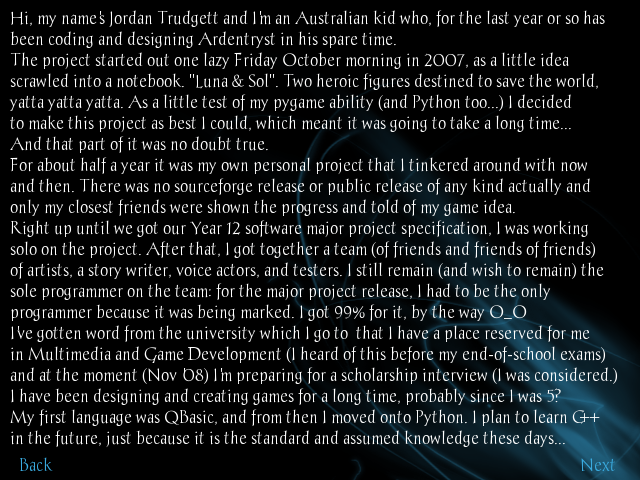
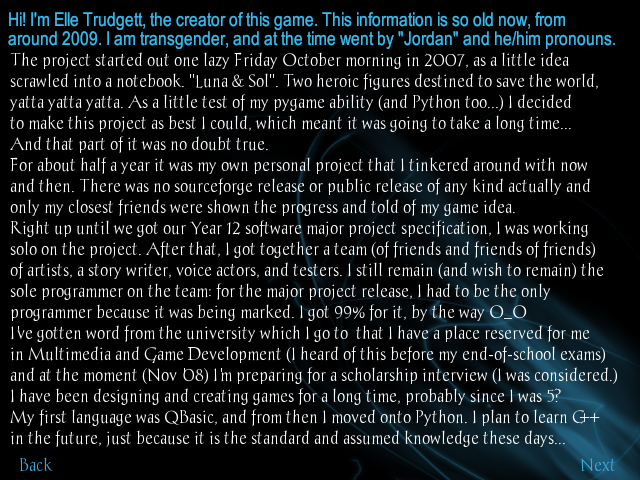
Update name and release version.

Changed region(s): [[0.0, 0.0, 0.9688, 0.0938]]

diff --git a/ardentryst.py b/ardentryst.py
@@ -16,7 +16,7 @@
 #    You should have received a copy of the GNU General Public License
 #    along with Ardentryst.  If not, see <http://www.gnu.org/licenses/>.
 #
-#    Copyright 2007, 2008, 2009 Jordan Trudgett
+#    Copyright 2007-2020 Elle Trudgett
 #
 #------------------------------------------------------------------------
 
@@ -77,10 +77,11 @@ except OSError:
 # If we can't, don't worry about it, and hope its working directory
 # has already been set. (This should be fine in 99% of cases.)
 
-VERSION = "20090726 (1.71-Comet Unstable) 1:11 PM AEST"
+VERSION = "20200922 (1.8-New World Stable)"
 DVERSION = VERSION[VERSION.index("(")+1:VERSION.index(")")].replace("-", ":")
 
 ALLOWED_OLDER_VERSIONS = [
+    "1.71:Comet Unstable",
     "1.7:Warp Speed Stable"
     ]
 
@@ -113,7 +114,7 @@ GAME_NAME = "Ardentryst"
 
 CREDITS = ["# " + GAME_NAME + " v" + DVERSION,
            "",
-           "An Action RPG and Software Major Project by Jordan Trudgett",
+           "An Action RPG and Software Major Project by Elle Trudgett",
            "developed with text-editor GNU Emacs",
            "written in Python with use of pygame libraries",
            "",
@@ -124,7 +125,7 @@ CREDITS = ["# " + GAME_NAME + " v" + DVERSION,
            "#Interface Design, Editor, Musical Talent,",
            "#Project Manager, Lead Game Developer, Project Leader,",
            "#Website Master, Digital Artist",
-           "$Jordan Trudgett",
+           "$Elle Trudgett",
            "",
            "What did you expect? :)",
            "",
@@ -142,7 +143,7 @@ CREDITS = ["# " + GAME_NAME + " v" + DVERSION,
            "#Voice Talent",
            "$Kendra Pietruszewski as Opening Scene Girl",
            "$Amy Dunwoodie as Nyx",
-           "$Jordan Trudgett as Pyralis",
+           "$Elle Trudgett as Pyralis",
            "",
            "#Sound contribution (freesound.org users)",
            "Creative Commons 3.0 License",
@@ -693,9 +694,8 @@ def handleException(e):
         savefilename = ""
     text = [
         "Ardentryst has experienced an unexpected crash.",
-        "Please take the effort to report the bug to the forums at",
-        "http://jordan.trudgett.com/",
-        "(Quick sign-up required)",
+        "You may report the bug on Github",
+        "https://github.com/ardentryst/ardentryst/issues",
         "",
         "By doing this, you may discover a solution to the bug,",
         "or help us fix it. You can even discuss it with other players!",
@@ -3737,10 +3737,10 @@ def main():
 
     print("\n-------------------------------------------------------------------------------")
     print((GAME_NAME + " v." + VERSION).center(79))
-    print("by Jordan Trudgett".center(79))
+    print("by Elle Trudgett".center(79))
     print("-------------------------------------------------------------------------------\n")
 
-    print("    Ardentryst Copyright (C) 2007, 2008, 2009 Jordan Trudgett")
+    print("    Ardentryst Copyright (C) 2007-2020 Elle Trudgett")
     print("    This program comes with ABSOLUTELY NO WARRANTY.")
     print("    This is free software, and you are welcome to redistribute it")
     print("    under certain conditions; for details, see the COPYING file.")
@@ -3945,8 +3945,7 @@ def main():
     while GAMELOOP:
         # Show game info slide(s)
         for scrp in [
-            ("Dedication.png", 4),
-            ("DevelopedWith.png", 5),
+            ("DevelopedWith.png", 5)
             ]:
             screen.blit(Data.images[scrp[0]][0], (0,0))
             skipsurf = Fonts[13].render("Press a key to skip", 1, (155,155,155))
@@ -3978,7 +3977,7 @@ def main():
         ticker = 0
         t = pygame.time.get_ticks()
 
-        MENU_STATUS = GAME_NAME + ": A 2007-2009 Software Project created by Jordan Trudgett. Written in 100% Python and pygame. This game is open source software. Please distribute it to your friends!"
+        MENU_STATUS = GAME_NAME + ": A 2007-2009 Software Project created by Elle Trudgett. Written in 100% Python and pygame. This game is open source software. Please distribute it to your friends!"
         sttext = Fonts[7].render(MENU_STATUS, 1, (255,245,235))
         sttextb = Fonts[7].render(MENU_STATUS, 1, (0,0,0))
         slen = sttext.get_rect()[2]
@@ -3986,7 +3985,7 @@ def main():
         vtextW = Fonts[9].render("Version " + DVERSION, 1, (255,255,255))
         vtextlen = vtextW.get_rect()[2]
 
-        svtexts = Fonts[9].render("Ardentryst, by Jordan Trudgett: http://jordan.trudgett.com/", 1, (255,255,255))
+        svtexts = Fonts[9].render("Ardentryst, by Elle Trudgett: https://www.elletrudgett.com/", 1, (255,255,255))
         svtextr = svtexts.get_rect()
         svtextr.midleft = (5,25)
         

diff --git a/mapping.py b/mapping.py
@@ -15,14 +15,9 @@
 #    You should have received a copy of the GNU General Public License
 #    along with Ardentryst.  If not, see <http://www.gnu.org/licenses/>.
 #
-#    Copyright 2007, 2008, 2009 Jordan Trudgett
+#    Copyright 2007-2020 Elle Trudgett
 #
 #------------------------------------------------------------------------
-
-try:
-    from xml.dom.ext.reader import Sax2
-except:
-    print("Ext.reader.Sax2 not found")
 
 footsteps = {
     "GRASS": [
@@ -308,6 +303,7 @@ class Tile:
         self.overhead = self.type in overheads
         
 if __name__ == "__main__":
+    from xml.dom.ext.reader import Sax2
     a_map = Map()
     a_map.compile_from_xml('testmap.xml')
     print("Compiled!")

diff --git a/play_level.py b/play_level.py
@@ -15,7 +15,7 @@
 #    You should have received a copy of the GNU General Public License
 #    along with Ardentryst.  If not, see <http://www.gnu.org/licenses/>.
 #
-#    Copyright 2007, 2008, 2009 Jordan Trudgett
+#    Copyright 2007-2020 Elle Trudgett
 #
 #------------------------------------------------------------------------
 
@@ -3120,7 +3120,7 @@ def playlevel(player, level, scripts, screen, data, fonts, soundbox, game, optio
             else: PLAYER.mp[0] += int(0.015 * PLAYER.mp[1]) + 1
 
         if EOLFADE is not None: continue # Ignore events if level finishing
-        if DEATHFADE is not 0: continue # likewise
+        if DEATHFADE != 0: continue # likewise
 
 
         # <-

diff --git a/data.py b/data.py
@@ -15,7 +15,7 @@
 #    You should have received a copy of the GNU General Public License
 #    along with Ardentryst.  If not, see <http://www.gnu.org/licenses/>.
 #
-#    Copyright 2007, 2008, 2009 Jordan Trudgett
+#    Copyright 2007-2020 Elle Trudgett
 #
 #------------------------------------------------------------------------
 
@@ -34,7 +34,7 @@ def load_image(name, colorkey=None, blur = False, prefix = 'Data'):
     if blur:
         image.set_alpha(blur, RLEACCEL)
     if colorkey is not None:
-        if colorkey is -1:
+        if colorkey == -1:
             colorkey = image.get_at((0,0))
         image.set_colorkey(colorkey, RLEACCEL)
     image = image.convert_alpha()

diff --git a/level_script.py b/level_script.py
@@ -1,7 +1,7 @@
 #------------------------------------------------------------------------
 #
 #    Ardentryst: Action/RPG
-#    Copyright (C) 2008  Jordan Trudgett
+#    Copyright (C) 2008  Elle Trudgett
 #
 #    This program is free software: you can redistribute it and/or modify
 #    it under the terms of the GNU General Public License as published by

diff --git a/Conch.py b/Conch.py
@@ -15,7 +15,7 @@
 #    You should have received a copy of the GNU General Public License
 #    along with Ardentryst.  If not, see <http://www.gnu.org/licenses/>.
 #
-#    Copyright 2007, 2008, 2009 Jordan Trudgett
+#    Copyright 2007-2020 Elle Trudgett
 #
 #------------------------------------------------------------------------
 

diff --git a/controls.py b/controls.py
@@ -15,7 +15,7 @@
 #    You should have received a copy of the GNU General Public License
 #    along with Ardentryst.  If not, see <http://www.gnu.org/licenses/>.
 #
-#    Copyright 2007, 2008, 2009 Jordan Trudgett
+#    Copyright 2007-2020 Elle Trudgett
 #
 #------------------------------------------------------------------------
 

diff --git a/enemyai.py b/enemyai.py
@@ -15,7 +15,7 @@
 #    You should have received a copy of the GNU General Public License
 #    along with Ardentryst.  If not, see <http://www.gnu.org/licenses/>.
 #
-#    Copyright 2007, 2008, 2009 Jordan Trudgett
+#    Copyright 2007-2020 Elle Trudgett
 #
 #------------------------------------------------------------------------
 

diff --git a/fade.py b/fade.py
@@ -15,7 +15,7 @@
 #    You should have received a copy of the GNU General Public License
 #    along with Ardentryst.  If not, see <http://www.gnu.org/licenses/>.
 #
-#    Copyright 2007, 2008, 2009 Jordan Trudgett
+#    Copyright 2007-2020 Elle Trudgett
 #
 #------------------------------------------------------------------------
 

diff --git a/game.py b/game.py
@@ -15,7 +15,7 @@
 #    You should have received a copy of the GNU General Public License
 #    along with Ardentryst.  If not, see <http://www.gnu.org/licenses/>.
 #
-#    Copyright 2007, 2008, 2009 Jordan Trudgett
+#    Copyright 2007-2020 Elle Trudgett
 #
 #------------------------------------------------------------------------
 

diff --git a/helpers.py b/helpers.py
@@ -15,7 +15,7 @@
 #    You should have received a copy of the GNU General Public License
 #    along with Ardentryst.  If not, see <http://www.gnu.org/licenses/>.
 #
-#    Copyright 2007, 2008, 2009 Jordan Trudgett
+#    Copyright 2007-2020 Elle Trudgett
 #
 #------------------------------------------------------------------------
 

diff --git a/item.py b/item.py
@@ -15,7 +15,7 @@
 #    You should have received a copy of the GNU General Public License
 #    along with Ardentryst.  If not, see <http://www.gnu.org/licenses/>.
 #
-#    Copyright 2007, 2008, 2009 Jordan Trudgett
+#    Copyright 2007-2020 Elle Trudgett
 #
 #------------------------------------------------------------------------
 
